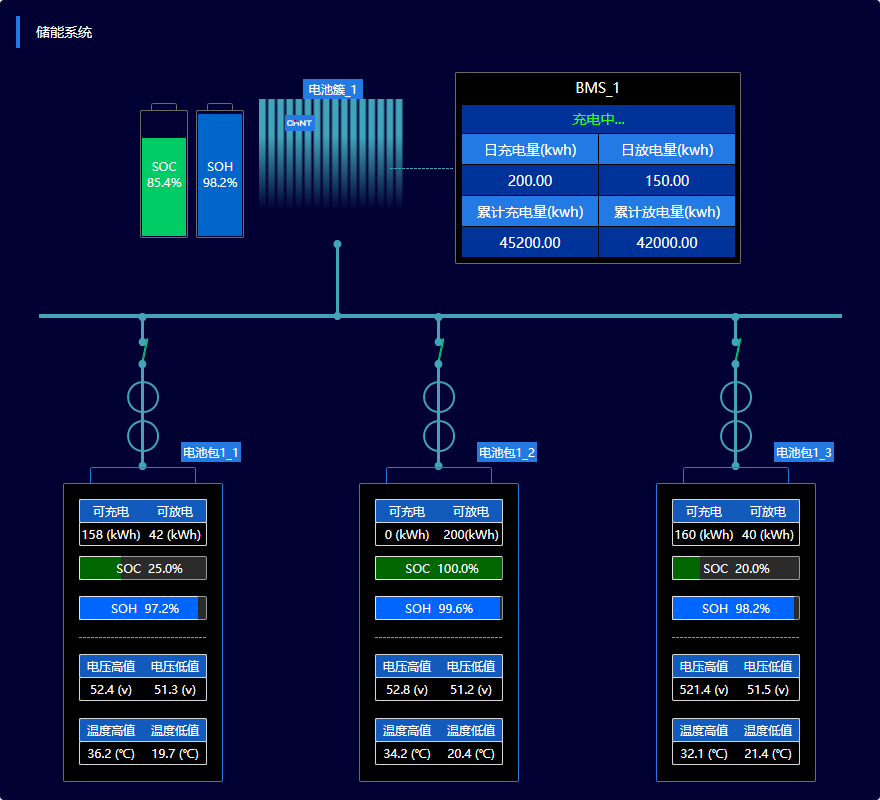
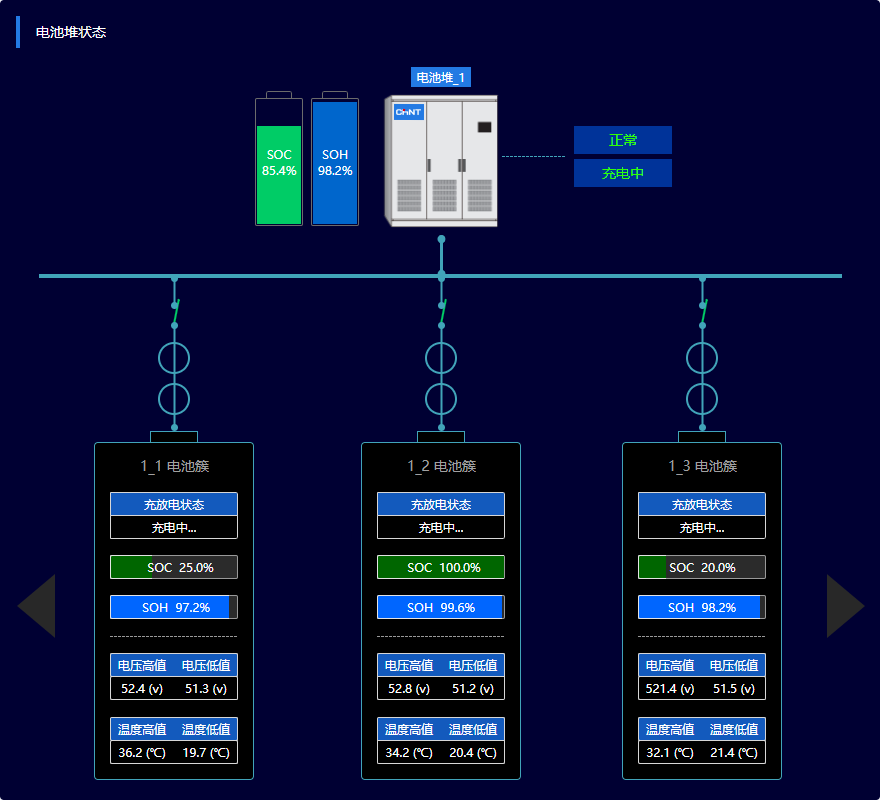
样式调整

Changed region(s): [[0.0, 0.0625, 0.9818, 1.0], [0.0307, 0.0312, 0.1227, 0.0625]]

diff --git a/src/pages/storage/storageMonitor/style.module.less b/src/pages/storage/storageMonitor/style.module.less
@@ -740,8 +740,8 @@
     position: absolute;
     width: 148px;
     height: 160px;
-    left: 258px;
-    top: 77px;
+    left: 360px;
+    top: 67px;
     background-color: #003;
     display: flex;
     flex-direction: column;
@@ -765,7 +765,7 @@
     height: 192px;
     background-color: #003;
     border-radius: 2px;
-    left: 455px;
+    left: 572px;
     top: 72px;
     font-size: 14px;
     color: #fff;
@@ -803,56 +803,56 @@
 
 .batteryPack {
     width: 805px;
-    height: 475px;
+    height: 520px;
     position: absolute;
     left: 39px;
-    top: 318px;
+    top: 278px;
     background-color: #003;
-    padding-left: 24px;
+    // padding-left: 24px;
     overflow: hidden;
 
     .transLate {
         display: flex;
-        width: 200%;
         transition: all 1s;
         position: absolute;
-        left: 24px;
+        left: 55px;
         top: 0;
     }
 
-    .leftButton {
-        position: absolute;
-        width: 48px;
-        height: 48px;
-        left: -10px;
-        top: 24px;
-        z-index: 1;
-        line-height: 48px;
-        text-align: center;
-        font-size: 48px;
-        color: #3c3c62;
-        cursor: pointer;
+    
+}
+.leftButton {
+    position: absolute;
+    width: 48px;
+    height: 48px;
+    left: 2px;
+    bottom: 171px;
+    z-index: 1;
+    line-height: 48px;
+    text-align: center;
+    font-size: 48px;
+    color: #3c3c62;
+    cursor: pointer;
 
-        &:hover {
-            color: #f2f2f2;
-        }
+    &:hover {
+        color: #f2f2f2;
     }
+}
 
-    .rightButton {
-        position: absolute;
-        width: 48px;
-        height: 48px;
-        right: -10px;
-        top: 24px;
-        z-index: 1;
-        line-height: 48px;
-        text-align: center;
-        font-size: 48px;
-        color: #3c3c62;
-        cursor: pointer;
+.rightButton {
+    position: absolute;
+    width: 48px;
+    height: 48px;
+    right: 2px;
+    bottom: 171px;
+    z-index: 1;
+    line-height: 48px;
+    text-align: center;
+    font-size: 48px;
+    color: #3c3c62;
+    cursor: pointer;
 
-        &:hover {
-            color: #f2f2f2;
-        }
+    &:hover {
+        color: #f2f2f2;
     }
 }

diff --git a/src/pages/storage/storageMonitor/batteryPack.js b/src/pages/storage/storageMonitor/batteryPack.js
@@ -1,38 +1,34 @@
 import React from "react";
+import styled from "styled-components";
 import batteryPack from './imgs/batteryPack.png'
+import clusterNormal from './imgs/clusterNormal.png'
+import clusterHover from './imgs/clusterHover.png'
 export default function index (props) {
     let {data} = props
-    const bgStyle = {
-        width: 160,
-        height: 455,
-        marginTop: -1,
-        backgroundImage: `url(${batteryPack})`,
-        backgroundSize: '100% 100%',
-        marginRight: 136,
-        position:'relative'
-    }
-    const packName ={
-        position:'absolute',
-        display:'inline-block',
-        height:20,
-        lineHeight:'20px',
-        right: -12,
-        top: 122,
-        backgroundColor: '#237ae4',
-        color:'#fff',
-        fontSize: 12
-    }
+    const BgStyle = styled.div`
+        width: 160px;
+        height: 505px;
+        margin-top: -1px;
+        background-image: url(${clusterNormal});
+        background-size: 100% 100%;
+        margin-right: 107px;
+        position:relative;
+        cursor: pointer;
+        &:hover{
+            background-image: url(${clusterHover});
+        }
+    `
     const battery ={
         position:'absolute',
         display:'inline-block',
-        height:299,
+        height:340,
         width: 160,
         lineHeight:'20px',
         left: 0,
         bottom: 0,
         padding:16,
-        backgroundColor: '#000',
-        border: '1px solid rgb(35, 122, 228)',
+        // backgroundColor: '#000',
+        // border: '1px solid rgb(35, 122, 228)',
         borderRadius: 2,
         color:'#fff',
         fontSize: 12,
@@ -64,9 +60,9 @@ export default function index (props) {
         props.toBattery()
     }
     return (
-        <div style={bgStyle}>
-            <span style={packName}>{data.batteryClusterName}</span>
+        <BgStyle>
             <div style={battery} onClick={()=>toBatteryData()}>
+                <div style={{fontSize: 14, lineHeight: '14px', marginBottom: 12,color:'#a1a1a1', textAlign:'center', wordWrap:'break-word', }}>{data.batteryClusterName}</div>
                 <div style={{width: 127, border:'1px solid #d7d7d7', borderRadius: 2, marginBottom: 12}}>
                     <div style={{width: '100%', height: 24, lineHeight:'24px', backgroundColor:'#237ae4',borderBottom:'1px solid #d7d7d7', textAlign:'center'}}>
                         <span style={{display:"inline-block", width: 62}}>充放电状态</span>
@@ -81,6 +77,6 @@ export default function index (props) {
                 <NormalValue title={['电压高值', '电压低值']} value={[data.maxV + '(V)', data.minV + '(V)']}></NormalValue>
                 <NormalValue title={['温度高值', '温度低值']} value={[data.maxTemp + '(℃)', data.minTemp + '(℃)']}></NormalValue>
             </div>
-        </div>
+        </BgStyle>
     )
 }

diff --git a/src/pages/storage/storageMonitor/mainPage.js b/src/pages/storage/storageMonitor/mainPage.js
@@ -54,18 +54,7 @@ export default function Index(props) {
     queryBatteryStackStatus } = StorageMonitorRuntime
   const projectId = useSelector(selectProjectId)
   const navigate = useNavigate()
-  const voltageData = {
-    x:["00:00", "01:00", "02:00", "03:00", "04:00", "05:00", "06:00", "07:00", "08:00", "09:00", "10:00", "11:00", "12:00", ],
-    y:[732.25, 758.32, 721.39, 701.54, 723.45, 720.15, 718.96, 728.36, 714.32, 701.36, 704.96, 724.36, 718.32 ]
-  }
-  const currentData = {
-    x:["00:00", "01:00", "02:00", "03:00", "04:00", "05:00", "06:00", "07:00", "08:00", "09:00", "10:00", "11:00", "12:00", ],
-    y:[9.84, 9.15, 9.98, 10.25, 10.01, 10, 9.87, 9.98, 9.99, 9.84, 9.15, 9.98, 10.25]
-  }
-  const SOCData = {
-    x:["00:00", "01:00", "02:00", "03:00", "04:00", "05:00", "06:00", "07:00", "08:00", "09:00", "10:00", "11:00", "12:00", ],
-    y:[25, 32, 39, 54, 45, 15, 66, 36, 32, 36, 43, 36, 32 ]
-  }
+
   const config = (lineId, color, Unit, lineData)=> {
     let chart = echarts.init(lineId);
     chart.setOption({
@@ -290,10 +279,10 @@ export default function Index(props) {
         <div className={style.middle}>
           <img src={topology} className={style.zhanwei}></img>
           <div className={style.middletitle}>电池堆状态</div>
-          <div style={{position:'absolute', left: 140, top: 102}}>
+          <div style={{position:'absolute', left: 255, top: 91}}>
             <CustomBattery name={'SOC'} value={ bmsInfo.soc ? bmsInfo.soc  + '%' :'0.00%' } color="#0c6"></CustomBattery>
           </div> 
-          <div style={{position:'absolute', left: 196, top: 102}}>
+          <div style={{position:'absolute', left: 311, top: 91}}>
             <CustomBattery name={'SOH'} value={bmsInfo.soh ? bmsInfo.soh  + '%' :'0.00%'} color="#06c"></CustomBattery>
           </div>
           <div className={style.deviceImg}>
@@ -304,14 +293,15 @@ export default function Index(props) {
             <div className={style.bmsStatus}>{bmsInfo.status}</div>
             <div className={style.bmsStatus}>{bmsInfo.chargeStatus }</div>
           </div>
-          <div className={style.batteryPack}>
-            <div className={style.rightButton} onClick={()=>translateLeft()}>
+          <div className={style.rightButton} onClick={()=>translateLeft()}>
               <CaretRightOutlined />
             </div>
             <div className={style.leftButton} onClick={()=>translateRight()}>
               <CaretLeftOutlined />
             </div>
-            <div className={style.transLate} style={{ left: (-(count * 296) + 24)}}>
+          <div className={style.batteryPack}>
+            
+            <div className={style.transLate} style={{ width: (parseInt(bmsInfo.batteryPackInfos.length / 3) + 1) * 100 + '%', left: (-(count * 277) + 55)}}>
               {bmsInfo.batteryPackInfos.map((item, index) => {
                 return <BatteryPack data={item} key={index} toBattery={()=>toBattery(item)}></BatteryPack>
               })}